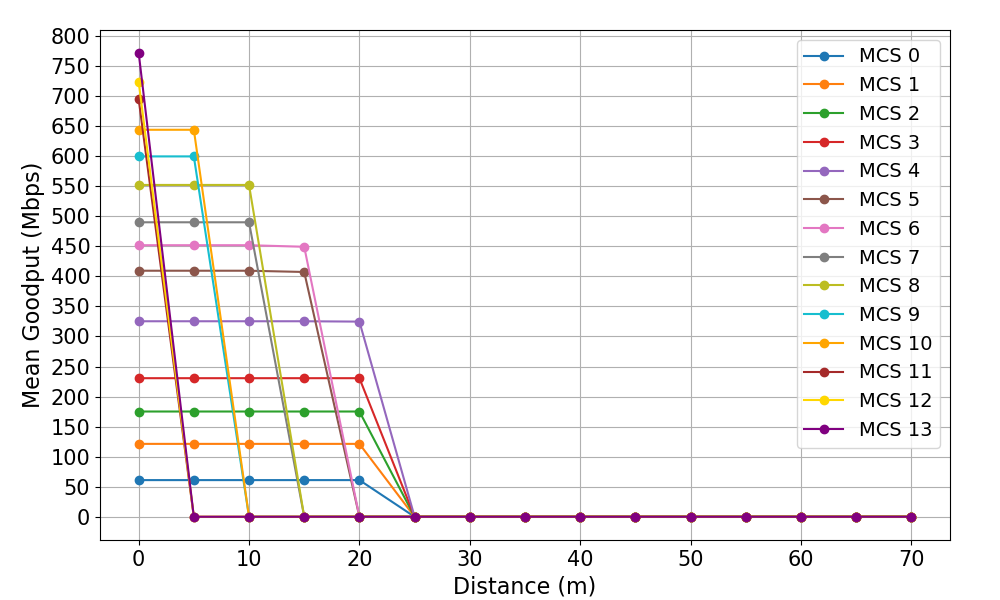
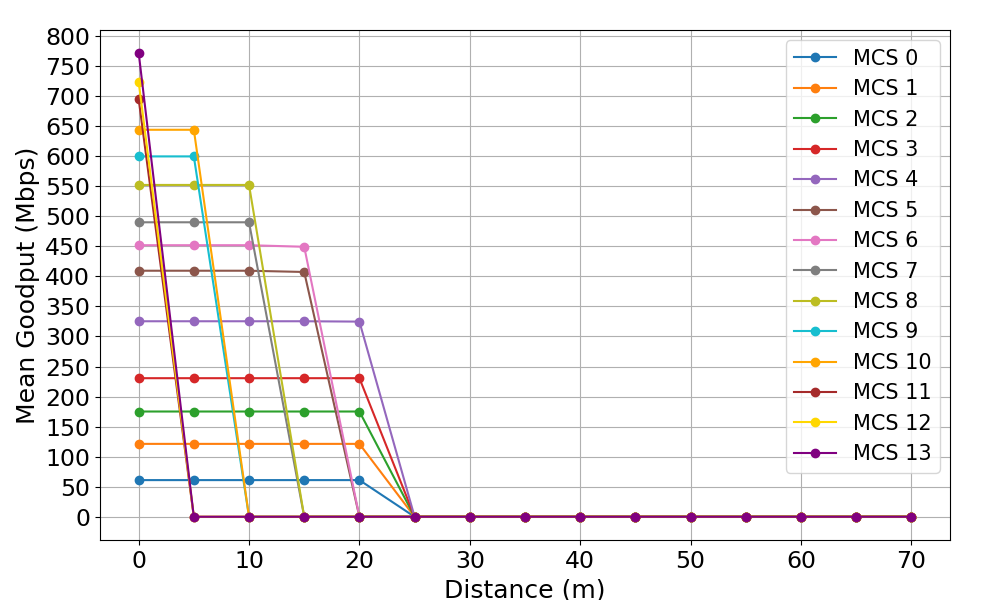
Aumento del tamaño de la letra de las gráficas

diff --git a/gooodput_vs_payloadsize/graficaps2.py b/gooodput_vs_payloadsize/graficaps2.py
@@ -46,15 +46,15 @@ for frequencyBand, group in dataframe.groupby('FrequencyBand(GHz)'):
     dashe = dashes.get(frequencyBand, None)
     line = plt.plot(group['PayloadSize(bytes)'], group['Mean_Goodput(Mbps)'], marker=marker, markersize=markersize, label=f'{frequencyBand} GHz', color=color, linestyle=linestyle, dashes=(dashe))
 
-plt.xlabel('PayloadSize(bytes)', fontsize=16)
-plt.ylabel('Mean Goodput (Mbps)', fontsize=16)
+plt.xlabel('PayloadSize(bytes)', fontsize=18)
+plt.ylabel('Mean Goodput (Mbps)', fontsize=18)
 #plt.title('Mean Goodput vs Payload Size - 802.11be - Minstrel')
 
 plt.ylim(top=600+5)
-plt.xticks(np.arange(0, dataframe['PayloadSize(bytes)'].max() + 5, 1000), fontsize=15)
-plt.yticks(np.arange(0, 601, 25), fontsize=15)
+plt.xticks(np.arange(0, dataframe['PayloadSize(bytes)'].max() + 5, 1000), fontsize=17)
+plt.yticks(np.arange(0, 601, 25), fontsize=17)
 
-plt.legend(title='Frequency Band',loc='lower right', fontsize=14)
+plt.legend(title='Frequency Band',loc='lower right', title_fontsize=16, fontsize=15)
 plt.grid(True)
 
 plt.subplots_adjust(left=0.1, right=0.95, top=0.95, bottom=0.1)

diff --git a/gooodput_vs_payloadsize/graficaps.py b/gooodput_vs_payloadsize/graficaps.py
@@ -46,15 +46,15 @@ for frequencyBand, group in dataframe.groupby('FrequencyBand(GHz)'):
     dashe = dashes.get(frequencyBand, None)
     line = plt.plot(group['PayloadSize(bytes)'], group['Mean_Goodput(Mbps)'], marker=marker, markersize=markersize, label=f'{frequencyBand} GHz', color=color, linestyle=linestyle, dashes=(dashe))
 
-plt.xlabel('PayloadSize(bytes)', fontsize=16)
-plt.ylabel('Mean Goodput (Mbps)', fontsize=16)
+plt.xlabel('PayloadSize(bytes)', fontsize=18)
+plt.ylabel('Mean Goodput (Mbps)', fontsize=18)
 #plt.title('Mean Goodput vs Payload Size - 802.11ax - Minstrel')
 
 plt.ylim(top=600+5)
-plt.xticks(np.arange(0, dataframe['PayloadSize(bytes)'].max() + 5, 1000), fontsize=15)
-plt.yticks(np.arange(0, 601, 25), fontsize=15)
+plt.xticks(np.arange(0, dataframe['PayloadSize(bytes)'].max() + 5, 1000), fontsize=17)
+plt.yticks(np.arange(0, 601, 25), fontsize=17)
 
-plt.legend(title='Frequency Band', fontsize=14)
+plt.legend(title='Frequency Band', title_fontsize=16, fontsize=15)
 plt.grid(True)
 
 plt.subplots_adjust(left=0.1, right=0.95, top=0.95, bottom=0.1)

diff --git a/goodput_vs_distance_minstrel/grafico1.py b/goodput_vs_distance_minstrel/grafico1.py
@@ -10,16 +10,16 @@ plt.figure(figsize=(8, 5))
 for frequencyBand, group in dataframe.groupby('FrequencyBand(GHz)'):
     plt.plot(group['Distance(m)'], group['Mean_Goodput(Mbps)'], marker='o', label=f'{frequencyBand} GHz')
 
-plt.xlabel('Distance(m)', fontsize=16)
-plt.ylabel('Mean Goodput (Mbps)', fontsize=16)
+plt.xlabel('Distance(m)', fontsize=18)
+plt.ylabel('Mean Goodput (Mbps)', fontsize=18)
 #plt.title('Mean Goodput vs Distance - 802.11ax - Minstrel')
 
 plt.ylim(top=200+5)
-plt.xticks(np.arange(0, dataframe['Distance(m)'].max() + 5, 10), fontsize=15)
-plt.yticks(np.arange(0, 201, 20), fontsize=15)
+plt.xticks(np.arange(0, dataframe['Distance(m)'].max() + 5, 10), fontsize=17)
+plt.yticks(np.arange(0, 201, 20), fontsize=17)
 
-plt.legend(title='Frequency Band', fontsize=14)
+plt.legend(title='Frequency Band', title_fontsize=16, fontsize=15)
 plt.grid(True)
 
-plt.subplots_adjust(left=0.1, right=0.95, top=0.95, bottom=0.1)
+plt.subplots_adjust(left=0.15, right=0.90, top=0.90, bottom=0.15)
 plt.show()

diff --git a/goodput_vs_distance_minstrel/grafico2.py b/goodput_vs_distance_minstrel/grafico2.py
@@ -10,15 +10,15 @@ plt.figure(figsize=(10, 7))
 for frequencyBand, group in dataframe.groupby('FrequencyBand(GHz)'):
     plt.plot(group['Distance(m)'], group['Mean_Goodput(Mbps)'], marker='o', label=f'{frequencyBand} GHz')
 
-plt.xlabel('Distance(m)', fontsize=16)
-plt.ylabel('Mean Goodput (Mbps)', fontsize=16)
+plt.xlabel('Distance(m)', fontsize=18)
+plt.ylabel('Mean Goodput (Mbps)', fontsize=18)
 #plt.title('Mean Goodput vs Distance - 802.11ax - Minstrel')
 
 plt.ylim(top=525+5)
-plt.xticks(np.arange(0, dataframe['Distance(m)'].max() + 5, 10), fontsize=15)
-plt.yticks(np.arange(0, dataframe['Mean_Goodput(Mbps)'].max() + 50, 25), fontsize=15)
+plt.xticks(np.arange(0, dataframe['Distance(m)'].max() + 5, 10), fontsize=17)
+plt.yticks(np.arange(0, dataframe['Mean_Goodput(Mbps)'].max() + 50, 25), fontsize=17)
 
-plt.legend(title='Frequency Band', fontsize=14)
+plt.legend(title='Frequency Band', title_fontsize=16, fontsize=15)
 plt.grid(True)
 
 plt.subplots_adjust(left=0.1, right=0.95, top=0.95, bottom=0.1)

diff --git a/goodput_vs_distance_minstrel/grafico3.py b/goodput_vs_distance_minstrel/grafico3.py
@@ -10,16 +10,16 @@ plt.figure(figsize=(8, 5))
 for frequencyBand, group in dataframe.groupby('FrequencyBand(GHz)'):
     plt.plot(group['Distance(m)'], group['Mean_Goodput(Mbps)'], marker='o', label=f'{frequencyBand} GHz')
 
-plt.xlabel('Distance(m)', fontsize=16)
-plt.ylabel('Mean Goodput (Mbps)', fontsize=16)
+plt.xlabel('Distance(m)', fontsize=18)
+plt.ylabel('Mean Goodput (Mbps)', fontsize=18)
 #plt.title('Mean Goodput vs Distance - 802.11be - Minstrel')
 
 plt.ylim(top=200+5)
-plt.xticks(np.arange(0, dataframe['Distance(m)'].max() + 5, 10), fontsize=15)
-plt.yticks(np.arange(0, 201, 20), fontsize=15)
+plt.xticks(np.arange(0, dataframe['Distance(m)'].max() + 5, 10), fontsize=17)
+plt.yticks(np.arange(0, 201, 20), fontsize=17)
 
-plt.legend(title='Frequency Band', fontsize=14)
+plt.legend(title='Frequency Band', title_fontsize=16, fontsize=15)
 plt.grid(True)
 
-plt.subplots_adjust(left=0.1, right=0.95, top=0.95, bottom=0.1)
+plt.subplots_adjust(left=0.15, right=0.90, top=0.90, bottom=0.15)
 plt.show()

diff --git a/goodput_vs_distance_minstrel/grafico4.py b/goodput_vs_distance_minstrel/grafico4.py
@@ -10,15 +10,15 @@ plt.figure(figsize=(10, 7))
 for frequencyBand, group in dataframe.groupby('FrequencyBand(GHz)'):
     plt.plot(group['Distance(m)'], group['Mean_Goodput(Mbps)'], marker='o', label=f'{frequencyBand} GHz')
 
-plt.xlabel('Distance(m)', fontsize=16)
-plt.ylabel('Mean Goodput (Mbps)',fontsize=16)
+plt.xlabel('Distance(m)', fontsize=18)
+plt.ylabel('Mean Goodput (Mbps)',fontsize=18)
 #plt.title('Mean Goodput vs Distance - 802.11be - Minstrel')
 
 plt.ylim(top=525+5)
-plt.xticks(np.arange(0, dataframe['Distance(m)'].max() + 5, 10), fontsize=15)
-plt.yticks(np.arange(0, dataframe['Mean_Goodput(Mbps)'].max() + 50, 25), fontsize=15)
+plt.xticks(np.arange(0, dataframe['Distance(m)'].max() + 5, 10), fontsize=17)
+plt.yticks(np.arange(0, dataframe['Mean_Goodput(Mbps)'].max() + 50, 25), fontsize=17)
 
-plt.legend(title='Frequency Band',fontsize=14)
+plt.legend(title='Frequency Band', title_fontsize=16, fontsize=15)
 plt.grid(True)
 
 plt.subplots_adjust(left=0.1, right=0.95, top=0.95, bottom=0.1)

diff --git a/goodput_vs_mcs/grafico3-4mixed.py b/goodput_vs_mcs/grafico3-4mixed.py
@@ -23,15 +23,15 @@ for channelWidth, group in dataframe2.groupby('ChannelWidth(Hz)'):
     color = colors.get(channelWidth, None)
     plt.plot(group['MCS'], group['Mean_Goodput(Mbps)'], marker='o', label=f'{channelWidth} Hz - 3200 ns', linestyle=":", color = color)
 
-plt.xlabel('MCS', fontsize=16)
-plt.ylabel('Mean Goodput (Mbps)', fontsize=16)
+plt.xlabel('MCS', fontsize=18)
+plt.ylabel('Mean Goodput (Mbps)', fontsize=18)
 #plt.title('Mean Goodput vs MCS - 802.11ax (2.4GHz)')
 
 plt.ylim(top=280+5)
-plt.xticks(np.arange(0, dataframe['MCS'].max() + 1, 1), fontsize=15)
-plt.yticks(np.arange(0, 281, 20), fontsize=15)
+plt.xticks(np.arange(0, dataframe['MCS'].max() + 1, 1), fontsize=17)
+plt.yticks(np.arange(0, 281, 20), fontsize=17)
 
-plt.legend(title='Channel Width - GI', loc='upper left', fontsize=14)
+plt.legend(title='Channel Width - GI', loc='upper left', title_fontsize=16, fontsize=15)
 plt.grid(True)
 
 plt.subplots_adjust(left=0.1, right=0.95, top=0.95, bottom=0.1)

diff --git a/goodput_vs_mcs/grafico5-6mixed.py b/goodput_vs_mcs/grafico5-6mixed.py
@@ -23,15 +23,15 @@ for channelWidth, group in dataframe2.groupby('ChannelWidth(Hz)'):
     color = colors.get(channelWidth, None)
     plt.plot(group['MCS'], group['Mean_Goodput(Mbps)'], marker='o', label=f'{channelWidth} Hz - 3200 ns', linestyle=":", color = color)
 
-plt.xlabel('MCS', fontsize=16)
-plt.ylabel('Mean Goodput (Mbps)', fontsize=16)
+plt.xlabel('MCS', fontsize=18)
+plt.ylabel('Mean Goodput (Mbps)', fontsize=18)
 #plt.title('Mean Goodput vs MCS - 802.11be (2.4GHz)')
 
 plt.ylim(top=280+5)
-plt.xticks(np.arange(0, dataframe['MCS'].max() + 1, 1), fontsize=15)
-plt.yticks(np.arange(0, 281, 20), fontsize=15)
+plt.xticks(np.arange(0, dataframe['MCS'].max() + 1, 1), fontsize=17)
+plt.yticks(np.arange(0, 281, 20), fontsize=17)
 
-plt.legend(title='Channel Width - GI', loc='upper left', fontsize=14)
+plt.legend(title='Channel Width - GI', loc='upper left', title_fontsize=16, fontsize=15)
 plt.grid(True)
 
 plt.subplots_adjust(left=0.1, right=0.95, top=0.95, bottom=0.1)

diff --git a/goodput_vs_mcs/grafico1-2mixed.py b/goodput_vs_mcs/grafico1-2mixed.py
@@ -25,15 +25,15 @@ for channelWidth, group in dataframe2.groupby('ChannelWidth(Hz)'):
     color = colors.get(channelWidth, None)
     plt.plot(group['MCS'], group['Mean_Goodput(Mbps)'], marker='o', label=f'{channelWidth} Hz - 3200 ns', linestyle=":", color = color)
 
-plt.xlabel('MCS', fontsize=16)
-plt.ylabel('Mean Goodput (Mbps)', fontsize=16)
+plt.xlabel('MCS', fontsize=18)
+plt.ylabel('Mean Goodput (Mbps)', fontsize=18)
 #plt.title('Mean Goodput vs MCS - 802.11ax (5GHz)')
 
 plt.ylim(top=800+10)
-plt.xticks(np.arange(0, dataframe['MCS'].max() + 1, 1), fontsize=15)
-plt.yticks(np.arange(0, 801, 50), fontsize=15)
+plt.xticks(np.arange(0, dataframe['MCS'].max() + 1, 1), fontsize=17)
+plt.yticks(np.arange(0, 801, 50), fontsize=17)
 
-plt.legend(title='Channel Width - GI', loc='upper left', fontsize=14)
+plt.legend(title='Channel Width - GI', loc='upper left', title_fontsize=16, fontsize=15)
 plt.grid(True)
 
 plt.subplots_adjust(left=0.1, right=0.95, top=0.95, bottom=0.1)

diff --git a/goodput_vs_mcs/grafico11-12mixed.py b/goodput_vs_mcs/grafico11-12mixed.py
@@ -25,15 +25,15 @@ for channelWidth, group in dataframe2.groupby('ChannelWidth(Hz)'):
     color = colors.get(channelWidth, None)
     plt.plot(group['MCS'], group['Mean_Goodput(Mbps)'], marker='o', label=f'{channelWidth} Hz - 3200 ns', linestyle=":", color = color)
 
-plt.xlabel('MCS', fontsize=16)
-plt.ylabel('Mean Goodput (Mbps)', fontsize=16)
+plt.xlabel('MCS', fontsize=18)
+plt.ylabel('Mean Goodput (Mbps)', fontsize=18)
 #plt.title('Mean Goodput vs MCS - 802.11be (6GHz)')
 
 plt.ylim(top=800+10)
-plt.xticks(np.arange(0, dataframe['MCS'].max() + 1, 1), fontsize=15)
-plt.yticks(np.arange(0, 801, 50), fontsize=15)
+plt.xticks(np.arange(0, dataframe['MCS'].max() + 1, 1), fontsize=17)
+plt.yticks(np.arange(0, 801, 50), fontsize=17)
 
-plt.legend(title='Channel Width - GI', loc='upper left', fontsize=14)
+plt.legend(title='Channel Width - GI', loc='upper left', title_fontsize=16, fontsize=15)
 plt.grid(True)
 
 plt.subplots_adjust(left=0.1, right=0.95, top=0.95, bottom=0.1)

diff --git a/goodput_vs_mcs/grafico7-8mixed.py b/goodput_vs_mcs/grafico7-8mixed.py
@@ -25,15 +25,15 @@ for channelWidth, group in dataframe2.groupby('ChannelWidth(Hz)'):
     color = colors.get(channelWidth, None)
     plt.plot(group['MCS'], group['Mean_Goodput(Mbps)'], marker='o', label=f'{channelWidth} Hz - 3200 ns', linestyle=":", color = color)
 
-plt.xlabel('MCS', fontsize=16)
-plt.ylabel('Mean Goodput (Mbps)', fontsize=16)
+plt.xlabel('MCS', fontsize=18)
+plt.ylabel('Mean Goodput (Mbps)', fontsize=18)
 #plt.title('Mean Goodput vs MCS - 802.11be (5GHz)')
 
 plt.ylim(top=800+10)
-plt.xticks(np.arange(0, dataframe['MCS'].max() + 1, 1), fontsize=15)
-plt.yticks(np.arange(0, 801, 50), fontsize=15)
+plt.xticks(np.arange(0, dataframe['MCS'].max() + 1, 1), fontsize=17)
+plt.yticks(np.arange(0, 801, 50), fontsize=17)
 
-plt.legend(title='Channel Width - GI', loc='upper left', fontsize=14)
+plt.legend(title='Channel Width - GI', loc='upper left', title_fontsize=16, fontsize=15)
 plt.grid(True)
 
 plt.subplots_adjust(left=0.1, right=0.95, top=0.95, bottom=0.1)

diff --git a/goodput_vs_mcs/grafico9-10mixed.py b/goodput_vs_mcs/grafico9-10mixed.py
@@ -25,15 +25,15 @@ for channelWidth, group in dataframe2.groupby('ChannelWidth(Hz)'):
     color = colors.get(channelWidth, None)
     plt.plot(group['MCS'], group['Mean_Goodput(Mbps)'], marker='o', label=f'{channelWidth} Hz - 3200 ns', linestyle=":", color = color)
 
-plt.xlabel('MCS', fontsize=16)
-plt.ylabel('Mean Goodput (Mbps)', fontsize=16)
+plt.xlabel('MCS', fontsize=18)
+plt.ylabel('Mean Goodput (Mbps)', fontsize=18)
 #plt.title('Mean Goodput vs MCS - 802.11ax (6GHz)')
 
 plt.ylim(top=800+10)
-plt.xticks(np.arange(0, dataframe['MCS'].max() + 1, 1), fontsize=15)
-plt.yticks(np.arange(0, 801, 50), fontsize=15)
+plt.xticks(np.arange(0, dataframe['MCS'].max() + 1, 1), fontsize=17)
+plt.yticks(np.arange(0, 801, 50), fontsize=17)
 
-plt.legend(title='Channel Width - GI', loc='upper left', fontsize=14)
+plt.legend(title='Channel Width - GI', loc='upper left', title_fontsize=16, fontsize=15)
 plt.grid(True)
 
 plt.subplots_adjust(left=0.1, right=0.95, top=0.95, bottom=0.1)
